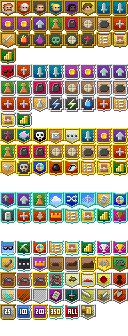
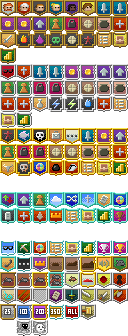
Summoning leftovers, food healing, Barricade room, two badges, two guide pages

Changed region(s): [[0.125, 0.9524, 0.375, 1.0]]

diff --git a/scripts/test/SummoningLeftoversTest.java b/scripts/test/SummoningLeftoversTest.java
@@ -1,0 +1,79 @@
+import com.shatteredpixel.shatteredpixeldungeon.Badges;
+import com.shatteredpixel.shatteredpixeldungeon.Dungeon;
+import com.shatteredpixel.shatteredpixeldungeon.GamesInProgress;
+import com.shatteredpixel.shatteredpixeldungeon.actors.Actor;
+import com.shatteredpixel.shatteredpixeldungeon.actors.hero.Hero;
+import com.shatteredpixel.shatteredpixeldungeon.actors.hero.HeroClass;
+import com.shatteredpixel.shatteredpixeldungeon.journal.Document;
+import com.shatteredpixel.shatteredpixeldungeon.levels.Terrain;
+import com.shatteredpixel.shatteredpixeldungeon.levels.rooms.standard.BarricadeRoom;
+import com.shatteredpixel.shatteredpixeldungeon.messages.Messages;
+
+/**
+ * Summoning PD Reincarnated leftovers, headless. Food healing, the Barricade room, the two badges, the guide pages,
+ * and (added as they are ported) the ring artifacts, cloak glyphs, Soul of Yendor, talents, the Adventurer,
+ * conducts, game modes and the tier challenge.
+ */
+public class SummoningLeftoversTest {
+
+	static int failures = 0;
+	static void fail( String what ) { failures++; System.out.println( "FAIL: " + what ); }
+	static void check( boolean ok, String what ) { if (!ok) fail( what ); }
+
+	static Hero startHero( HeroClass cls ) {
+		GamesInProgress.selectedClass = cls;
+		Dungeon.seed = 515151L;
+		Dungeon.sandbox = true;
+		Dungeon.init();
+		Hero hero = Dungeon.hero;
+		MobArenaTest.levelDepth = -1;
+		MobArenaTest.level( 3 );
+		Actor.remove( Dungeon.hero );
+		int start = Dungeon.hero.pos;
+		Dungeon.hero = hero;
+		hero.live();
+		hero.sprite = TestBoot.sprite();
+		hero.sprite.ch = hero;
+		hero.pos = start;
+		Actor.add( hero );
+		return hero;
+	}
+
+	public static void main( String[] args ) throws Exception {
+		TestBoot.boot();
+		Hero hero = startHero( HeroClass.CONJURER );
+
+		//food heals the Conjurer
+		hero.HP = 1;
+		com.shatteredpixel.shatteredpixeldungeon.actors.hero.SummoningHooks.onFoodEaten( hero );
+		check( hero.HP == 6, "Conjurer should heal 5 from food, HP " + hero.HP );
+
+		//the Barricade room
+		BarricadeRoom room = new BarricadeRoom();
+		room.set( 2, 2, 12, 12 );
+		room.connected.put( new BarricadeRoom(), new com.shatteredpixel.shatteredpixeldungeon.levels.rooms.Room.Door( 2, 7 ) );
+		room.paint( Dungeon.level );
+		int bars = 0;
+		for (int x = 3; x < 12; x++) for (int y = 3; y < 12; y++) {
+			if (Dungeon.level.map[x + y * Dungeon.level.width()] == Terrain.BARRICADE) bars++;
+		}
+		check( bars > 0 && bars < 81, "Barricade room should hold some barricades, has " + bars );
+
+		//badges and guide pages have their text
+		for (Badges.Badge b : new Badges.Badge[]{Badges.Badge.NIGHTMARE_SLAIN, Badges.Badge.SPIRIT_SLAIN}) {
+			check( !b.title().contains( "!!!" ) && !b.desc().contains( "!!!" ), "badge text missing for " + b );
+		}
+		for (String page : new String[]{Document.GUIDE_SUMMONING, Document.GUIDE_TIERING}) {
+			check( Document.ADVENTURERS_GUIDE.pageNames().contains( page ), "guide page missing " + page );
+			check( !Document.ADVENTURERS_GUIDE.pageTitle( page ).contains( "!!!" ), "guide page title missing " + page );
+			check( !Document.ADVENTURERS_GUIDE.pageBody( page ).contains( "!!!" ), "guide page body missing " + page );
+		}
+
+		finish();
+	}
+
+	static void finish() {
+		System.out.println( "SUMMARY summoning leftovers failures=" + failures );
+		System.exit( failures > 0 ? 1 : 0 );
+	}
+}

diff --git a/core/src/main/java/com/shatteredpixel/shatteredpixeldungeon/levels/rooms/standard/BarricadeRoom.java b/core/src/main/java/com/shatteredpixel/shatteredpixeldungeon/levels/rooms/standard/BarricadeRoom.java
@@ -1,0 +1,64 @@
+/*
+ * Pixel Dungeon
+ * Copyright (C) 2012-2015 Oleg Dolya
+ *
+ * Shattered Pixel Dungeon
+ * Copyright (C) 2014-2021 Evan Debenham
+ *
+ * Summoning Pixel Dungeon Reincarnated, TrashboxBobylev
+ * Ported to Onyx's Pixel Dungeon on Shattered 4.0.2's patch room API.
+ *
+ * This program is free software: you can redistribute it and/or modify
+ * it under the terms of the GNU General Public License as published by
+ * the Free Software Foundation, either version 3 of the License, or
+ * (at your option) any later version.
+ */
+
+package com.shatteredpixel.shatteredpixeldungeon.levels.rooms.standard;
+
+import com.shatteredpixel.shatteredpixeldungeon.levels.Level;
+import com.shatteredpixel.shatteredpixeldungeon.levels.Terrain;
+import com.shatteredpixel.shatteredpixeldungeon.levels.painters.Painter;
+
+//a room filled with patches of wooden barricades, a path through it is always kept clear
+public class BarricadeRoom extends PatchRoom {
+
+	@Override
+	public float[] sizeCatProbs() {
+		return new float[]{8, 4, 1};
+	}
+
+	@Override
+	protected float fill() {
+		//fill scales from ~30% at 4x4, to ~60% at 18x18
+		return 0.25f + (width()*height())/900f;
+	}
+
+	@Override
+	protected int clustering() {
+		return 3;
+	}
+
+	@Override
+	protected boolean ensurePath() {
+		return true;
+	}
+
+	@Override
+	protected boolean cleanEdges() {
+		return true;
+	}
+
+	@Override
+	public void paint(Level level) {
+		Painter.fill( level, this, Terrain.WALL );
+		Painter.fill( level, this, 1 , Terrain.EMPTY );
+		for (Door door : connected.values()) {
+			door.set( Door.Type.EMPTY );
+		}
+
+		setupPatch(level);
+		fillPatch(level, Terrain.BARRICADE);
+	}
+
+}

diff --git a/core/src/main/java/com/shatteredpixel/shatteredpixeldungeon/journal/Document.java b/core/src/main/java/com/shatteredpixel/shatteredpixeldungeon/journal/Document.java
@@ -210,6 +210,10 @@ public enum Document {
 					return new ItemSprite( ItemSpriteSheet.SPIRIT_BOW );
 				case "Magic":
 					return new ItemSprite( ItemSpriteSheet.WAND_FIREBOLT );
+				case Document.GUIDE_SUMMONING: //summoning
+					return new ItemSprite( ItemSpriteSheet.FROGGIT_STAFF );
+				case Document.GUIDE_TIERING: //summoning
+					return new ItemSprite( ItemSpriteSheet.RING_DIAMOND );
 			}
 		}
 	}
@@ -252,6 +256,9 @@ public enum Document {
 	public static final String GUIDE_DIEING         = "Dieing";
 
 	public static final String GUIDE_SEARCHING      = "Searching";
+	//summoning, Summoning PD's two guide pages, given by play instead of dropping on floors
+	public static final String GUIDE_SUMMONING      = "Summoning";
+	public static final String GUIDE_TIERING        = "Tiering";
 
 	public static final String KING_ATTRITION       = "attrition";
 
@@ -274,6 +281,8 @@ public enum Document {
 		ADVENTURERS_GUIDE.pagesStates.put("Levelling",          debug ? READ : NOT_FOUND);
 		ADVENTURERS_GUIDE.pagesStates.put("Positioning",        debug ? READ : NOT_FOUND);
 		ADVENTURERS_GUIDE.pagesStates.put("Magic",              debug ? READ : NOT_FOUND);
+		ADVENTURERS_GUIDE.pagesStates.put(GUIDE_SUMMONING,      debug ? READ : NOT_FOUND); //summoning
+		ADVENTURERS_GUIDE.pagesStates.put(GUIDE_TIERING,        debug ? READ : NOT_FOUND); //summoning
 		
 		//given in sewers
 		ALCHEMY_GUIDE.pagesStates.put("Potions",                debug ? READ : NOT_FOUND);

diff --git a/core/src/main/java/com/shatteredpixel/shatteredpixeldungeon/actors/hero/SummoningHooks.java b/core/src/main/java/com/shatteredpixel/shatteredpixeldungeon/actors/hero/SummoningHooks.java
@@ -1,0 +1,35 @@
+/*
+ * Onyx's Pixel Dungeon
+ * Hooks for content ported from Summoning Pixel Dungeon Reincarnated (TrashboxBobylev).
+ * Every call site in a Shattered class is one line marked //summoning that calls a method here.
+ */
+
+package com.shatteredpixel.shatteredpixeldungeon.actors.hero;
+
+import com.shatteredpixel.shatteredpixeldungeon.Dungeon;
+import com.shatteredpixel.shatteredpixeldungeon.effects.Speck;
+
+public class SummoningHooks {
+
+	//Summoning PD's two guide pages are found by play, the first summon and the first tier change
+	public static void findGuidePage( String page ){
+		if (Dungeon.sandbox) return;
+		if (com.shatteredpixel.shatteredpixeldungeon.journal.Document.ADVENTURERS_GUIDE.findPage(page)) {
+			try {
+				com.shatteredpixel.shatteredpixeldungeon.scenes.GameScene.flashForDocument(
+						com.shatteredpixel.shatteredpixeldungeon.journal.Document.ADVENTURERS_GUIDE, page);
+			} catch (Exception e) {
+				//no game scene in headless tests
+			}
+		}
+	}
+
+	//the Conjurer heals 5 health whenever she eats, as in the mod (not in the Hell mode)
+	public static void onFoodEaten( Hero hero ){
+		if (hero.heroClass == HeroClass.CONJURER && hero.HP < hero.HT && Dungeon.mode != Dungeon.GameMode.HELL) {
+			hero.HP = Math.min( hero.HP + 5, hero.HT );
+			if (hero.sprite != null) hero.sprite.emitter().burst( Speck.factory( Speck.HEALING ), 1 );
+		}
+	}
+
+}

diff --git a/core/src/main/java/com/shatteredpixel/shatteredpixeldungeon/Badges.java b/core/src/main/java/com/shatteredpixel/shatteredpixeldungeon/Badges.java
@@ -302,7 +302,9 @@ public class Badges {
 		RATS_4                      ( 139 ),
 		PAT_RAT                     ( 140 ),
 		KETCHUP                     ( 141 ),
-		JACKPOT                     ( 160 );
+		JACKPOT                     ( 160 ),
+		NIGHTMARE_SLAIN             ( 161 ), //summoning
+		SPIRIT_SLAIN                ( 162 ); //summoning
 
 		public boolean meta;
 
@@ -652,9 +654,19 @@ public class Badges {
 		displayBadge( badge );
 	}
 	
-	//summoning, Summoning PD's badges for its two rare bosses are not here
-	public static void validateNightmare(){ }
-	public static void validateSpirit(){ }
+	//summoning, Summoning PD's badges for its two rare bosses
+	public static void validateNightmare(){
+		if (!local.contains( Badge.NIGHTMARE_SLAIN )) {
+			local.add( Badge.NIGHTMARE_SLAIN );
+			displayBadge( Badge.NIGHTMARE_SLAIN );
+		}
+	}
+	public static void validateSpirit(){
+		if (!local.contains( Badge.SPIRIT_SLAIN )) {
+			local.add( Badge.SPIRIT_SLAIN );
+			displayBadge( Badge.SPIRIT_SLAIN );
+		}
+	}
 
 	public static void validateItemLevelAquired( Item item ) {
 		

diff --git a/core/src/main/java/com/shatteredpixel/shatteredpixeldungeon/items/food/Food.java b/core/src/main/java/com/shatteredpixel/shatteredpixeldungeon/items/food/Food.java
@@ -108,6 +108,7 @@ public class Food extends Item {
 
 			Dungeon.level.onHeroConsumableUsed(hero, this);
 			Talent.onFoodEaten(hero, energy, this);
+			com.shatteredpixel.shatteredpixeldungeon.actors.hero.SummoningHooks.onFoodEaten(hero); //summoning
 			hero.lastEaten = this;
 			if (hero.subClass == com.shatteredpixel.shatteredpixeldungeon.actors.hero.HeroSubClass.DEVOTEE) {
 				com.shatteredpixel.shatteredpixeldungeon.items.artifacts.BloodVial ref = hero.belongings.getItem(com.shatteredpixel.shatteredpixeldungeon.items.artifacts.BloodVial.class);

diff --git a/core/src/main/java/com/shatteredpixel/shatteredpixeldungeon/items/weapon/melee/staffs/Staff.java b/core/src/main/java/com/shatteredpixel/shatteredpixeldungeon/items/weapon/melee/staffs/Staff.java
@@ -422,6 +422,7 @@ public class Staff extends Weapon implements Tierable {
                     minionmin(),
                     minionmax());
             Statistics.summonedMinions++;
+            com.shatteredpixel.shatteredpixeldungeon.actors.hero.SummoningHooks.findGuidePage(com.shatteredpixel.shatteredpixeldungeon.journal.Document.GUIDE_SUMMONING);
             minion.strength = STRReq();
             this.customizeMinion(minion);
             minion.enchantment = enchantment;

diff --git a/core/src/main/java/com/shatteredpixel/shatteredpixeldungeon/levels/RegularLevel.java b/core/src/main/java/com/shatteredpixel/shatteredpixeldungeon/levels/RegularLevel.java
@@ -652,6 +652,8 @@ public abstract class RegularLevel extends Level {
 
 			//a total of 6 pages drop randomly, the rest are specially dropped or are given at the start
 			missingPages.remove(Document.GUIDE_SEARCHING);
+			missingPages.remove(Document.GUIDE_SUMMONING); //summoning
+			missingPages.remove(Document.GUIDE_TIERING); //summoning
 
 			//chance to find a page is 0/25/50/75/100% for floors 1/2/3/4/5+
 			float dropChance = 0.25f*(Dungeon.depth-1);

diff --git a/core/src/main/java/com/shatteredpixel/shatteredpixeldungeon/levels/worlds/AbyssLevel.java b/core/src/main/java/com/shatteredpixel/shatteredpixeldungeon/levels/worlds/AbyssLevel.java
@@ -84,6 +84,7 @@ public class AbyssLevel extends WorldLevel {
 			default: rooms.add(new com.shatteredpixel.shatteredpixeldungeon.levels.rooms.standard.BoomRoom()); break;
 		}
 		if (Random.Int(2) == 0) rooms.add(new com.shatteredpixel.shatteredpixeldungeon.levels.rooms.standard.CircleRoom());
+		if (Random.Int(2) == 0) rooms.add(new com.shatteredpixel.shatteredpixeldungeon.levels.rooms.standard.BarricadeRoom()); //summoning
 		return rooms;
 	}
 

diff --git a/core/src/main/java/com/shatteredpixel/shatteredpixeldungeon/Dungeon.java b/core/src/main/java/com/shatteredpixel/shatteredpixeldungeon/Dungeon.java
@@ -449,7 +449,7 @@ public class Dungeon {
 		return false;
 	}
 	public enum GameMode { NORMAL, SMALL, BIGGER, CAVES, GAUNTLET, EXPLORE, LOL, NO_SOU, NO_EXP, HELL, DIFFICULT, REALTIME, CHAOS }
-	public static final GameMode mode = GameMode.NORMAL;
+	public static GameMode mode = GameMode.NORMAL;
 
 	public static boolean levelHasBeenGenerated(int depth, int branch){
 		return generatedLevels.contains(depth + 1000*branch);
